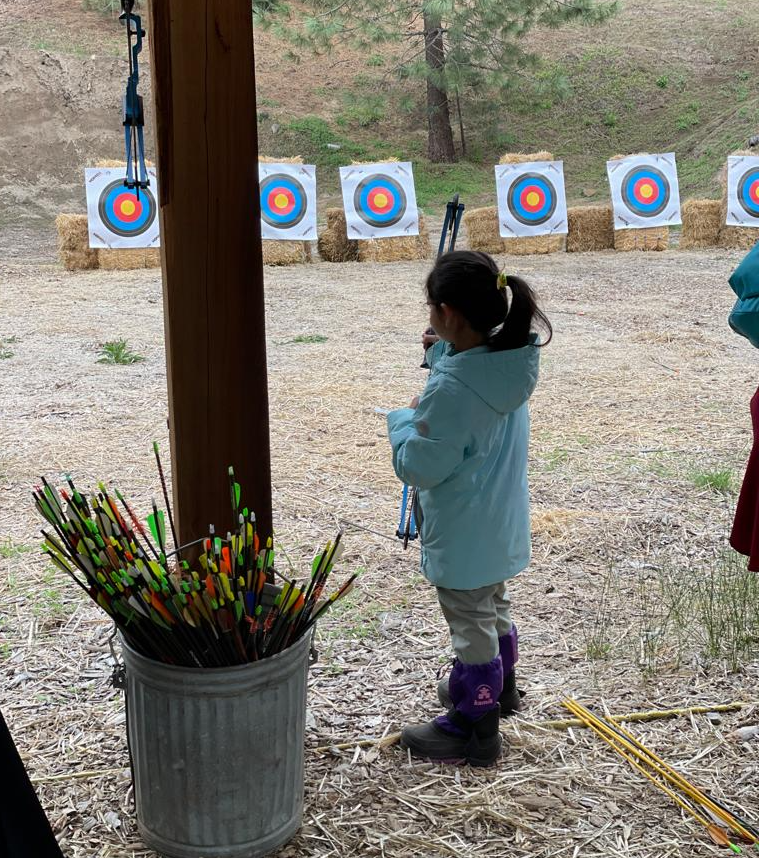
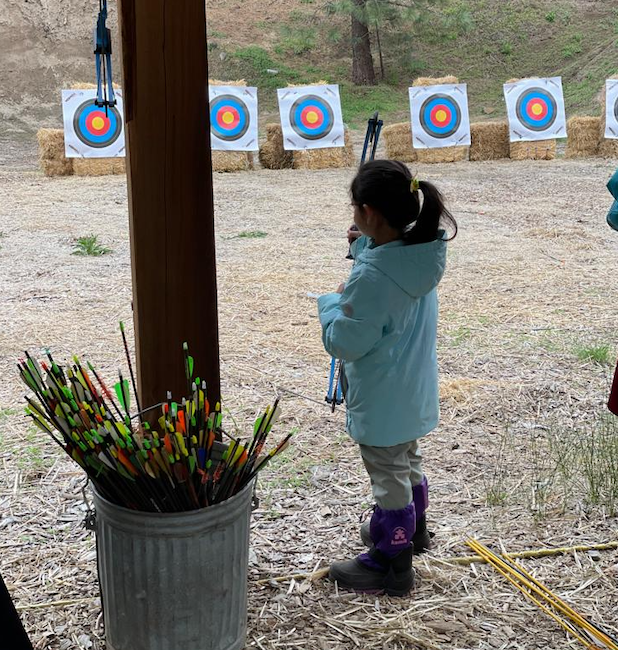
Pack499 2025: features added

diff --git a/index.html b/index.html
@@ -36,7 +36,7 @@
 
 
 
-<link href="/css/custom.css?1745433681" rel="stylesheet">
+<link href="/css/custom.css?1745447648" rel="stylesheet">
 
 
 
@@ -442,7 +442,7 @@
                                 
                             </div>
                             <div class="col-sm-7">
-                                <img class="img-responsive" src="images/pack499-pwd-24-2.png" alt="">
+                                <img class="img-responsive" src="images/pack499-pwd-24-3.png" alt="">
                             </div>
                         </div>
                     
@@ -466,11 +466,11 @@
                     
                         <div class="row">
                             <div class="col-sm-5 right">
-                                <h1>Pinewood Derby</h1>
+                                <h1>Outdoor activities</h1>
                                 
                             </div>
                             <div class="col-sm-7">
-                                <img class="img-responsive" src="images/pack499-pwd-24-3.png" alt="">
+                                <img class="img-responsive" src="images/pack499-bsa-archery.png" alt="">
                             </div>
                         </div>
                     
@@ -480,11 +480,11 @@
                     
                         <div class="row">
                             <div class="col-sm-5 right">
-                                <h1>Outdoor activities</h1>
+                                <h1>Pinewood Derby</h1>
                                 
                             </div>
                             <div class="col-sm-7">
-                                <img class="img-responsive" src="images/pack499-bsa-archery.png" alt="">
+                                <img class="img-responsive" src="images/pack499-pwd-24-1.jpeg" alt="">
                             </div>
                         </div>
                     
@@ -532,6 +532,20 @@
                     
                 </div>
                 
+                <div class="item">
+                    
+                        <div class="row">
+                            <div class="col-sm-5 right">
+                                <h1>STEM</h1>
+                                
+                            </div>
+                            <div class="col-sm-7">
+                                <img class="img-responsive" src="images/pack499-popup-rocket-24-1.png" alt="">
+                            </div>
+                        </div>
+                    
+                </div>
+                
             </div>
             
         </div>
@@ -543,6 +557,145 @@
 
 
         
+
+
+
+<section class="bar background-white">
+    <div class="container">
+        
+        
+
+        
+
+        
+
+        
+          <div class="row row-0 row-odd">
+            
+
+                
+                
+                    
+
+                    <div class="col-md-4 col-0 col-odd">
+                        <div class="box-simple">
+                            
+                            <a href="/activities/rgr">
+                            
+                                <div class="icon">
+                                    <i class="fas fa-globe"></i>
+                                </div>
+                            
+                            </a>
+                            
+                            <h3>Raingutter Regatta</h3>
+                            <p>The raingutter regatta is a racing event for Cub Scouts in the Boy Scouts of America that is the sailboat equivalent of the pinewood derby.</p>
+                        </div>
+                    </div>
+                
+            
+
+                
+                
+                    
+
+                    <div class="col-md-4 col-1 col-even">
+                        <div class="box-simple">
+                            
+                                <div class="icon">
+                                    <i class="fas fa-globe"></i>
+                                </div>
+                            
+                            <h3>Service Projects</h3>
+                            <p>A service project focused on orphans can encompass various initiatives aimed at improving the lives of children who have lost their parents or guardians, often with a focus on education, healthcare, and overall well-being</p>
+                        </div>
+                    </div>
+                
+            
+
+                
+                
+                    
+
+                    <div class="col-md-4 col-2 col-odd">
+                        <div class="box-simple">
+                            
+                                <div class="icon">
+                                    <i class="fas fa-globe"></i>
+                                </div>
+                            
+                            <h3>Pack Events</h3>
+                            <p>a variety of activities that bring together dens and families for a fun and educational experience. These events include monthly pack meetings, special activities like Pinewood Derby and Blue and Gold Banquets, and various community service projects.</p>
+                        </div>
+                    </div>
+                
+            
+          </div>
+        
+          <div class="row row-1 row-even">
+            
+
+                
+                
+                    
+
+                    <div class="col-md-4 col-0 col-odd">
+                        <div class="box-simple">
+                            
+                                <div class="icon">
+                                    <i class="fas fa-globe"></i>
+                                </div>
+                            
+                            <h3>Outdoor Events</h3>
+                            <p>Scouting involves a wide array of outdoor events and activities, from day hikes and campouts to high adventure expeditions and national jamborees. These activities aim to develop skills, foster leadership, and promote citizenship while enjoying the outdoors.</p>
+                        </div>
+                    </div>
+                
+            
+
+                
+                
+                    
+
+                    <div class="col-md-4 col-1 col-even">
+                        <div class="box-simple">
+                            
+                            <a href="/activities/pwd">
+                            
+                                <div class="icon">
+                                    <i class="far fa-globe"></i>
+                                </div>
+                            
+                            </a>
+                            
+                            <h3>Pinewood Derby</h3>
+                            <p>Since it was first introduced in 1953 by Don Murphy, a Cubmaster in California, Pine Wood Derby(PWD) has become one of the most popular and favorite activity for cubscouts. It is one of the most celebrated tradition in Cubscouts</p>
+                        </div>
+                    </div>
+                
+            
+
+                
+                
+                    
+
+                    <div class="col-md-4 col-2 col-odd">
+                        <div class="box-simple">
+                            
+                                <div class="icon">
+                                    <i class="fas fa-globe"></i>
+                                </div>
+                            
+                            <h3>Family Campouts</h3>
+                            <p>Family camping offers a unique opportunity to create lasting memories, strengthen bonds, and experience the joys of nature together</p>
+                        </div>
+                    </div>
+                
+            
+          </div>
+        
+    </div>
+</section>
 
 
 

diff --git a/pwd-form-24/index.html b/pwd-form-24/index.html
@@ -36,7 +36,7 @@
 
 
 
-<link href="/css/custom.css?1745433681" rel="stylesheet">
+<link href="/css/custom.css?1745447648" rel="stylesheet">
 
 
 
@@ -413,7 +413,7 @@
 
                         <div>
                           <div>
-    <iframe src="https://forms.gle/GQdME4dyjDz3kQuu9" style="border-width:0" width="800" height="1200" frameborder="0" ></iframe>
+    <iframe src="https://forms.gle/GQdME4dyjDz3kQuu9" style="border-width:0" width="1080" height="1080" frameborder="0" ></iframe>
 </div>
 
 

diff --git a/404.html b/404.html
@@ -36,7 +36,7 @@
 
 
 
-<link href="/css/custom.css?1745433681" rel="stylesheet">
+<link href="/css/custom.css?1745447648" rel="stylesheet">
 
 
 

diff --git a/about/index.html b/about/index.html
@@ -36,7 +36,7 @@
 
 
 
-<link href="/css/custom.css?1745433681" rel="stylesheet">
+<link href="/css/custom.css?1745447648" rel="stylesheet">
 
 
 

diff --git a/activities/council/index.html b/activities/council/index.html
@@ -36,7 +36,7 @@
 
 
 
-<link href="/css/custom.css?1745433681" rel="stylesheet">
+<link href="/css/custom.css?1745447648" rel="stylesheet">
 
 
 

diff --git a/activities/index.html b/activities/index.html
@@ -36,7 +36,7 @@
 
 
 
-<link href="/css/custom.css?1745433681" rel="stylesheet">
+<link href="/css/custom.css?1745447648" rel="stylesheet">
 
 
 

diff --git a/activities/popcorn/index.html b/activities/popcorn/index.html
@@ -36,7 +36,7 @@
 
 
 
-<link href="/css/custom.css?1745433681" rel="stylesheet">
+<link href="/css/custom.css?1745447648" rel="stylesheet">
 
 
 

diff --git a/activities/pwd/index.html b/activities/pwd/index.html
@@ -36,7 +36,7 @@
 
 
 
-<link href="/css/custom.css?1745433681" rel="stylesheet">
+<link href="/css/custom.css?1745447648" rel="stylesheet">
 
 
 

diff --git a/activities/rgr/index.html b/activities/rgr/index.html
@@ -36,7 +36,7 @@
 
 
 
-<link href="/css/custom.css?1745433681" rel="stylesheet">
+<link href="/css/custom.css?1745447648" rel="stylesheet">
 
 
 

diff --git a/activities/stem/index.html b/activities/stem/index.html
@@ -36,7 +36,7 @@
 
 
 
-<link href="/css/custom.css?1745433681" rel="stylesheet">
+<link href="/css/custom.css?1745447648" rel="stylesheet">
 
 
 

diff --git a/advancements/index.html b/advancements/index.html
@@ -36,7 +36,7 @@
 
 
 
-<link href="/css/custom.css?1745433681" rel="stylesheet">
+<link href="/css/custom.css?1745447648" rel="stylesheet">
 
 
 

diff --git a/authors/index.html b/authors/index.html
@@ -36,7 +36,7 @@
 
 
 
-<link href="/css/custom.css?1745433681" rel="stylesheet">
+<link href="/css/custom.css?1745447648" rel="stylesheet">
 
 
 
